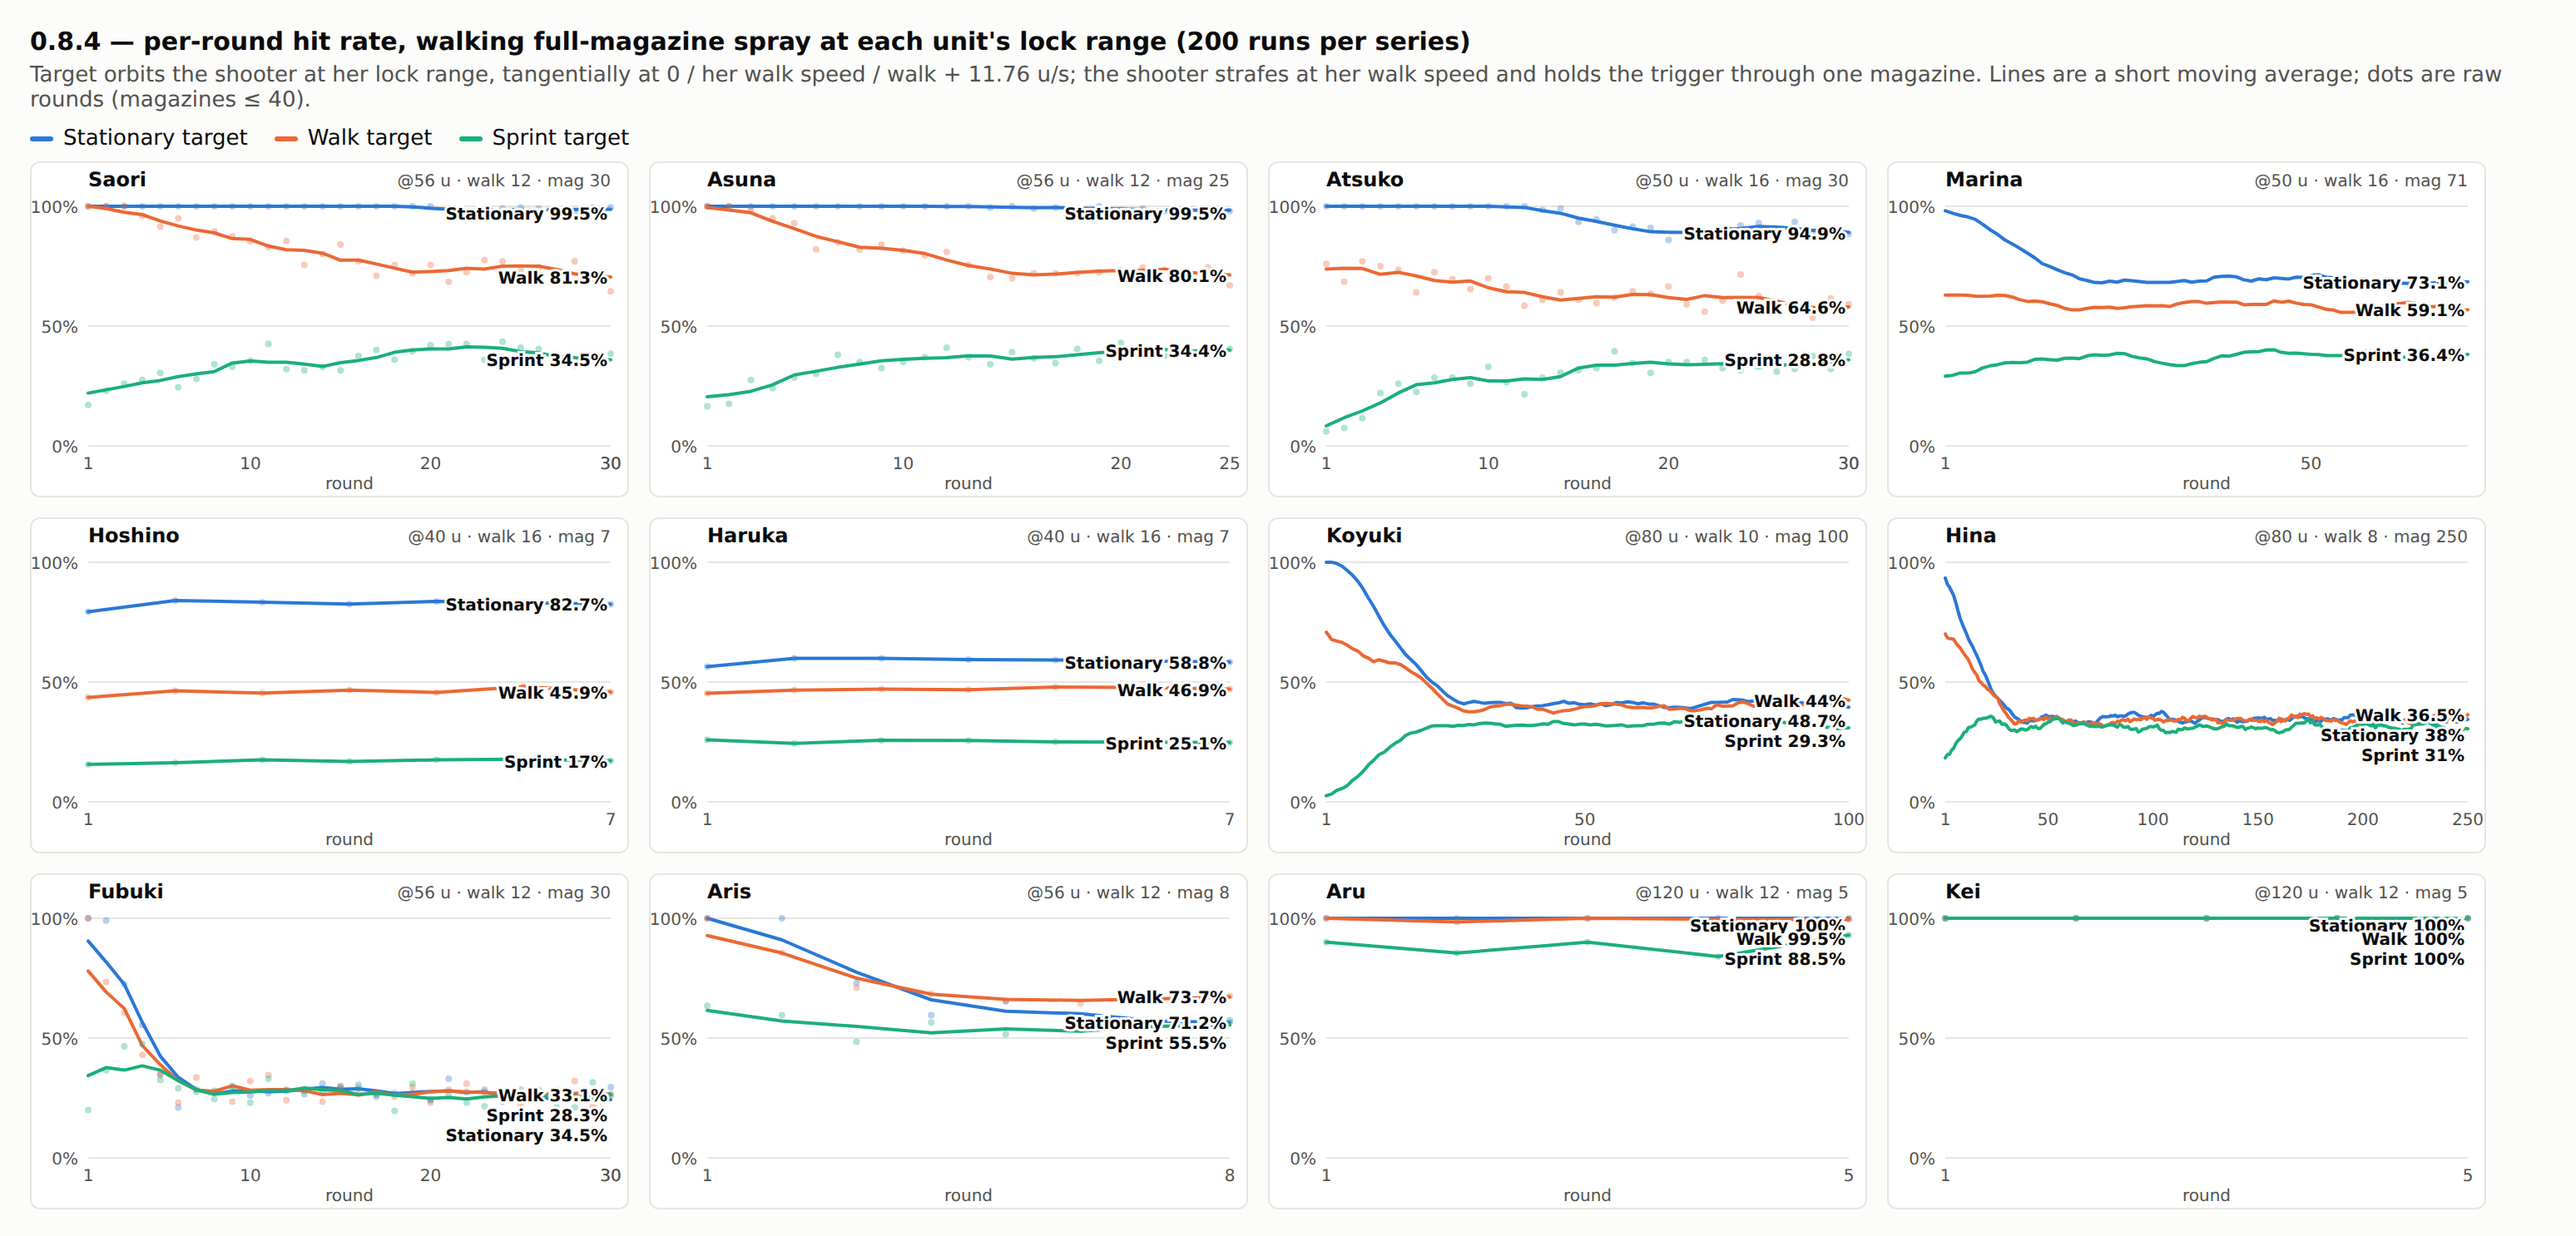
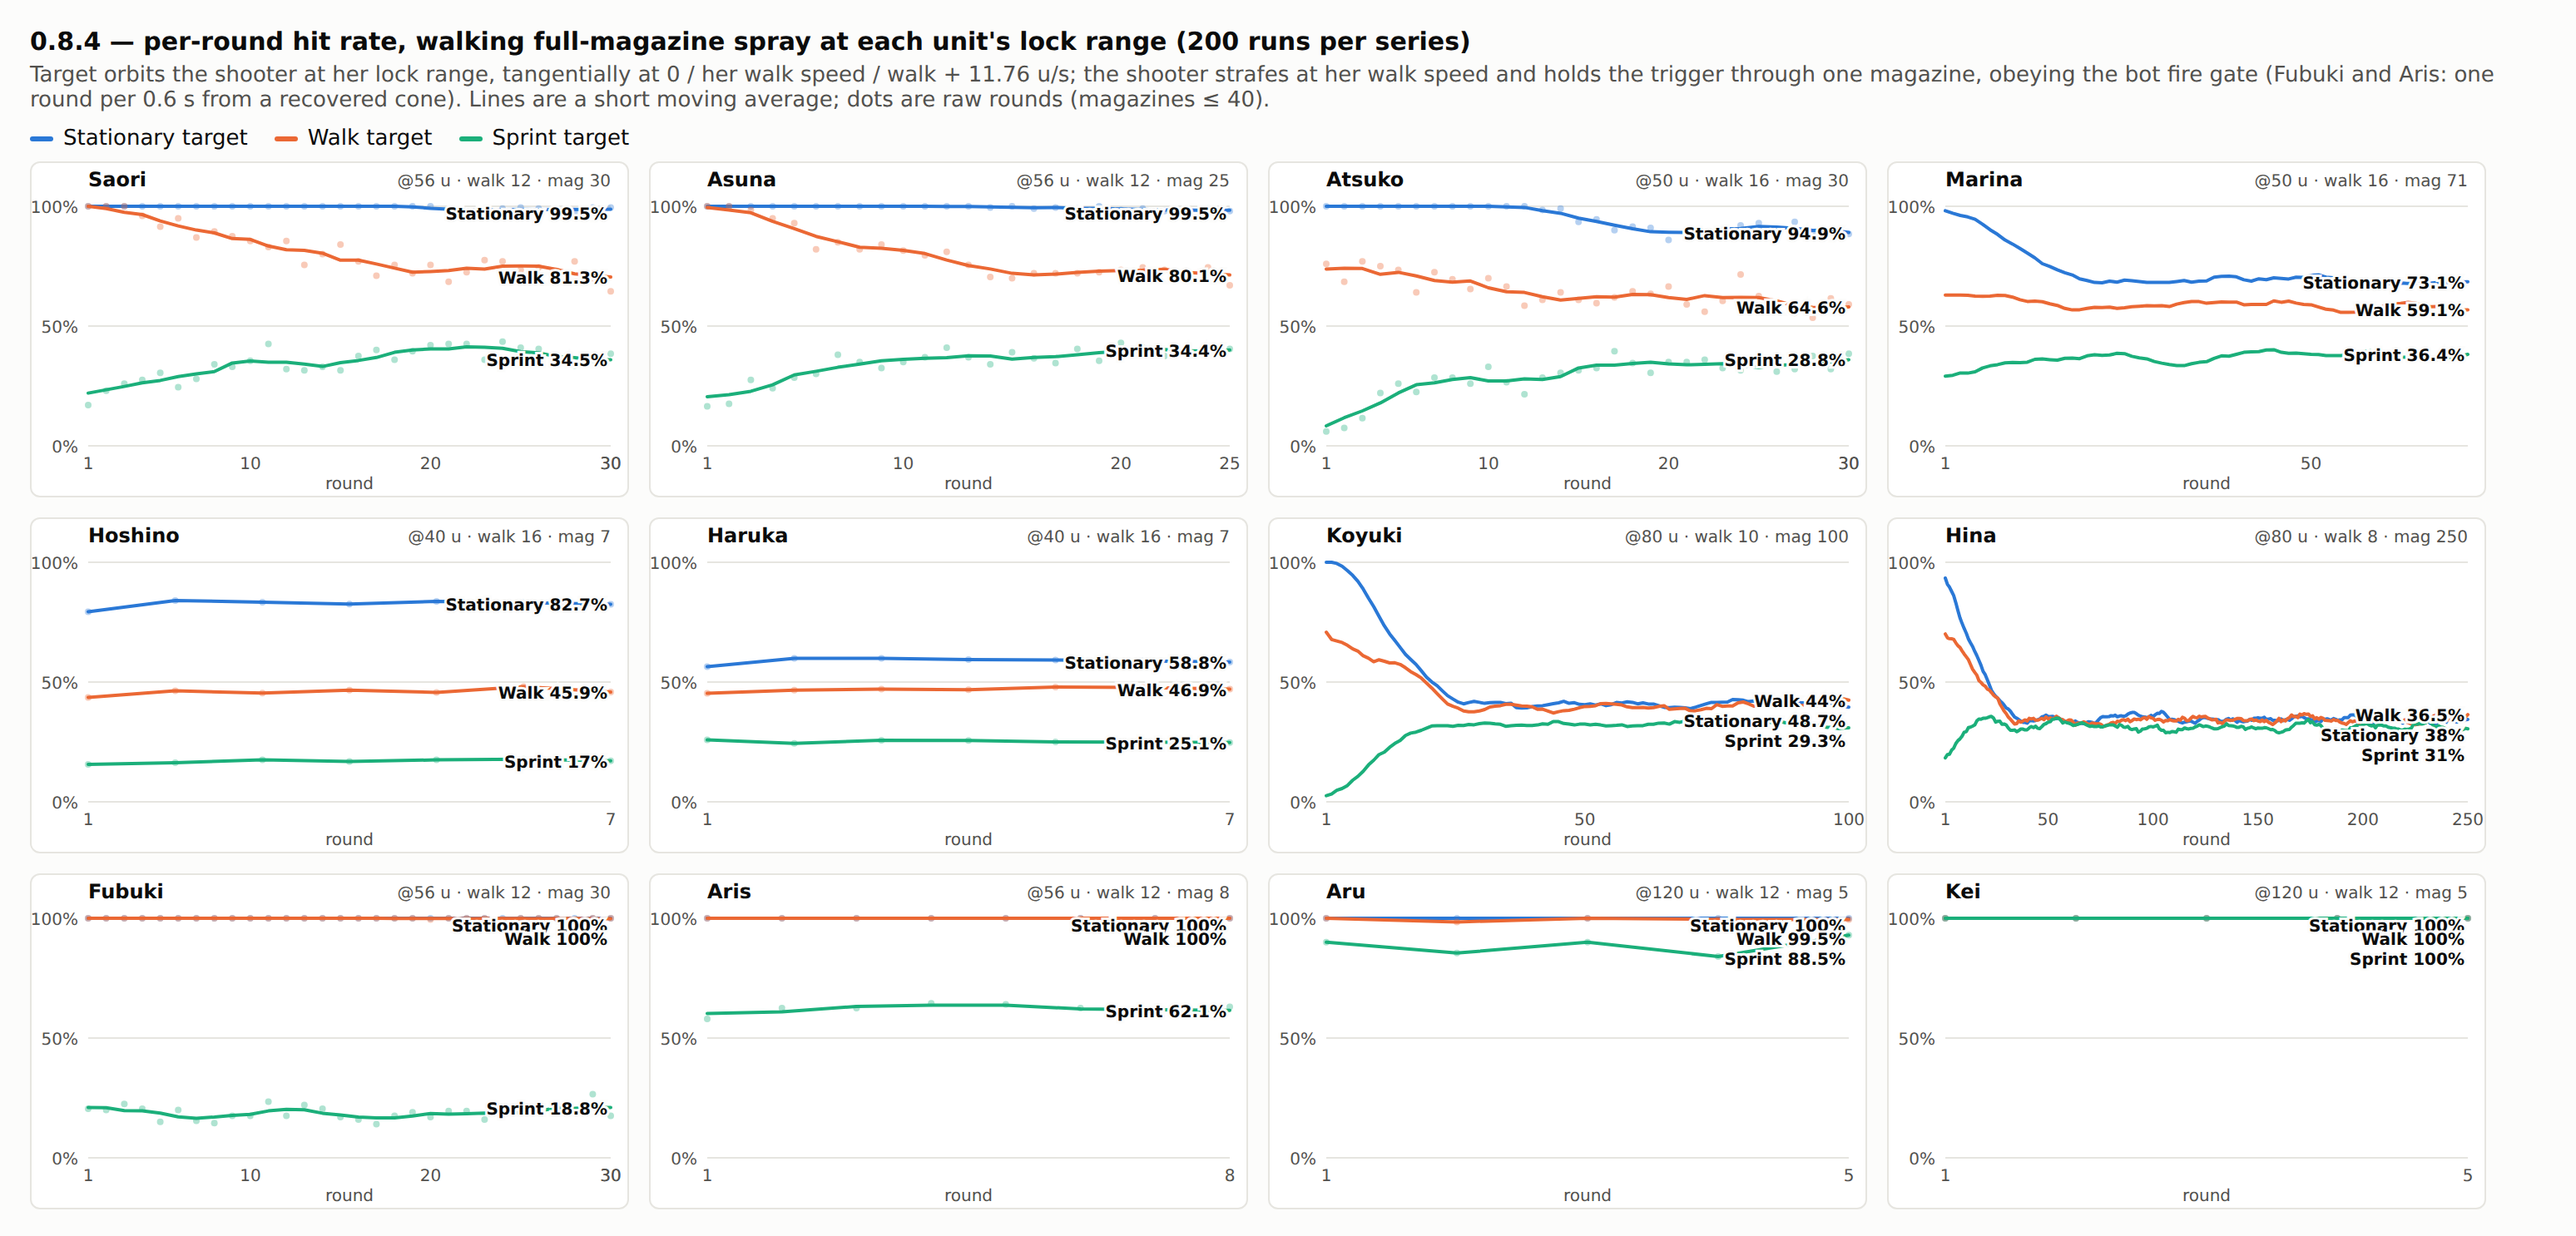
0.8.4: hit-rate sim — the shooter obeys the bot fire gate, so Fubuki and Aris fire on their 100% line
The per-round hit-rate harness now runs the shooter's trigger through
botMayFire (bloom.js), the same rule the bots use. Only the marksman
rifles' gate — the sure-hit line — ever closes inside their own lock
range, so Fubuki and Aris fire one round per 0.6 s from a fully recovered
cone instead of spraying the magazine at their caps; every other gun's
line sits beyond its lock range even at the cap (0 gated ticks measured),
so their series are unchanged. Re-measured the two rifles (200 runs per
series): Fubuki 100 / 100 / 19%, Aris 100 / 100 / 62% (was 35 / 33 / 28
and 71 / 74 / 56 held down). Chart re-rendered; README rows, the protocol
bullet and the reading notes updated, with the ungated spray kept as a
one-line comparison.

Claude-Session: https://claude.ai/code/session_01WRmaW8Rcy6Uy3N3ztRYSCo

diff --git a/README.md b/README.md
@@ -142,7 +142,7 @@ Unit 13 is the lightest bullet in the game on Hina's cadence: the 48 ms tick slo
 
 **Measured hit rates** (2026-09-26 — remeasured for the spread bloom; the pre-bloom Shooting Range lanes are retired). Once a cone grows with every round, one percentage no longer describes a gun: what matters is **how the hit chance decays across a magazine while the shooter is on the move**. So the new protocol is a walking full-magazine spray, run on the shared sim (the code the server runs) on Plain Field, 200 runs per series:
 
-- **Shooter:** strafes sideways at her own walk speed (16 or 12 u/s; Koyuki 10, Hina 8), reversing every 400 ms so she is never still and every round blooms, and holds the trigger through **one whole magazine** (tap-fired for the shotguns and snipers; a charging sniper is rooted by the sim, as in play). Every unit fires from **her own lock range** only.
+- **Shooter:** strafes sideways at her own walk speed (16 or 12 u/s; Koyuki 10, Hina 8), reversing every 400 ms so she is never still and every round blooms, and holds the trigger through **one whole magazine** (tap-fired for the shotguns and snipers; a charging sniper is rooted by the sim, as in play), **obeying the bot fire gate** (`botMayFire`): only the marksman rifles' line — the 100% sure-hit line — ever closes inside their own lock range, so Fubuki and Aris fire one round per 0.6 s from a fully recovered cone, exactly as their bots do; every other gun's line sits beyond its lock range even at the cap, and the gate never trips. Every unit fires from **her own lock range** only.
 - **Target:** a real unit — the 3.2-wide hit capsule, not the Range's signs — ping-ponging on a ±35° arc at lock range around the shooter, so it always moves across the line of fire, at three speeds: standing, the shooter's own walk speed, and that walk speed + 11.76 (the sprint boost). Reversal at the arc ends is instant, so the speed never dips. Shots aim at the target's current position, exactly as the game does (no lead).
 - **Scoring:** every round is a hit or a miss (shotguns: pellets landed ÷ 8 per blast; Kei's beam counts as a round). Each curve is the hit chance of the *n*-th round of the magazine, averaged over the 200 runs; the numbers in the table are the mean over the whole magazine and, in brackets, the mean of its first third → last third.
 
@@ -158,12 +158,12 @@ Unit 13 is the lightest bullet in the game on Hina's cadence: the 48 ms tick slo
 | Haruka @40 · 7 rds | 59% (58→59) | 47% (46→47) | 25% (25→25) |
 | Koyuki @80 · 100 rds | 49% (65→41) | 44% (52→40) | 29% (23→32) |
 | Hina @80 · 250 rds | 38% (45→34) | 37% (41→34) | 31% (31→31) |
-| Fubuki @56 · 30 rds | 35% (50→26) | 33% (45→27) | 28% (32→26) |
-| Aris @56 · 8 rds | 71% (100→57) | 74% (93→67) | 56% (62→56) |
+| Fubuki @56 · 30 rds | 100% (100→100) | 100% (100→100) | 19% (18→20) |
+| Aris @56 · 8 rds | 100% (100→100) | 100% (100→100) | 62% (60→62) |
 | Aru @120 · 5 rds | 100% (100→100) | 100% (100→100) | 89% (90→93) |
 | Kei @120 · 5 rds | 100% (100→100) | 100% (100→100) | 100% (100→100) |
 
-*Reading it:* the first→last gap is the bloom. The 900 RPM rifles open a magazine at 100% on a walking target and close it in the low 70s; Atsuko slips 100→90 even on a standing target: her capped cone's sure-hit line is 40 u, inside her 50 u lock, and a 30-round spray gets there by round 20; Koyuki's 100-round belt and Hina's 250 reach their capped cone inside the first third and sit there (~40% and ~34%), which is why their bots fire ungated. A flat pair means the gun never leaves its resting cone: the shotguns (7 blasts, a fixed pattern), and Hina and Koyuki from round ~40 on. The walk column is no longer one target speed for everyone — the 16 u/s SMG targets are harder than the 12 u/s rifle targets — so compare it as "each unit against her own peer". Sprint is no longer untouchable: crossing the line of fire at 24–28 u/s still gets clipped a quarter to a third of the time, and the rifles' sprint curve *rises* through the magazine (28→39) as the widening cone starts to cover the flight-time lead. The snipers are the flat lines at the top: Aru's 2,500 u/s bolt crosses 120 u in under 50 ms, so even a sprinter drifts about one unit before impact, and Kei's beam is instant.
+*Reading it:* the first→last gap is the bloom. The 900 RPM rifles open a magazine at 100% on a walking target and close it in the low 70s; Atsuko slips 100→90 even on a standing target: her capped cone's sure-hit line is 40 u, inside her 50 u lock, and a 30-round spray gets there by round 20; Koyuki's 100-round belt and Hina's 250 reach their capped cone inside the first third and sit there (~40% and ~34%), which is why their bots fire ungated. A flat pair means the gun never leaves its resting cone: the shotguns (7 blasts, a fixed pattern), and Hina and Koyuki from round ~40 on. The marksman rifles are flat for the opposite reason: on their 100% gate they never fire bloomed, so every round is a 0.02-cone shot — 100% on anything walking, and against a sprinter only the flight-time drift is left: Fubuki 19%, Aris 62%, her laser bolt hitting with a 0.4 wider radius and its whole 64-long trailing body, which forgives more of the drift than Fubuki's point bullet. (Held down through the magazine instead, ignoring the gate, they spray at their caps — Fubuki 35 / 33 / 28%, Aris 71 / 74 / 56% — which is what the gate is for.) The walk column is no longer one target speed for everyone — the 16 u/s SMG targets are harder than the 12 u/s rifle targets — so compare it as "each unit against her own peer". Sprint is no longer untouchable: crossing the line of fire at 24–28 u/s still gets clipped a quarter to a third of the time, and the assault rifles' sprint curve *rises* through the magazine (28→39) as the widening cone starts to cover the flight-time lead. The snipers are the flat lines at the top: Aru's 2,500 u/s bolt crosses 120 u in under 50 ms, so even a sprinter drifts about one unit before impact, and Kei's beam is instant.
 
 Projectiles fly straight (homing is zeroed universally). The targeting reticle is an **enemy-firing indicator**, not a range indicator: green by default, it flashes red while your current target is firing and stays red for the whole time a sniper is mid-charge with you as the target (see the sniper section). Being inside lock range is not signalled to players at all — the number only shapes bot behavior (bots hold their engage band around it). A faint in-lock tracer tint that once keyed to it was removed 2026-08-01.
 
